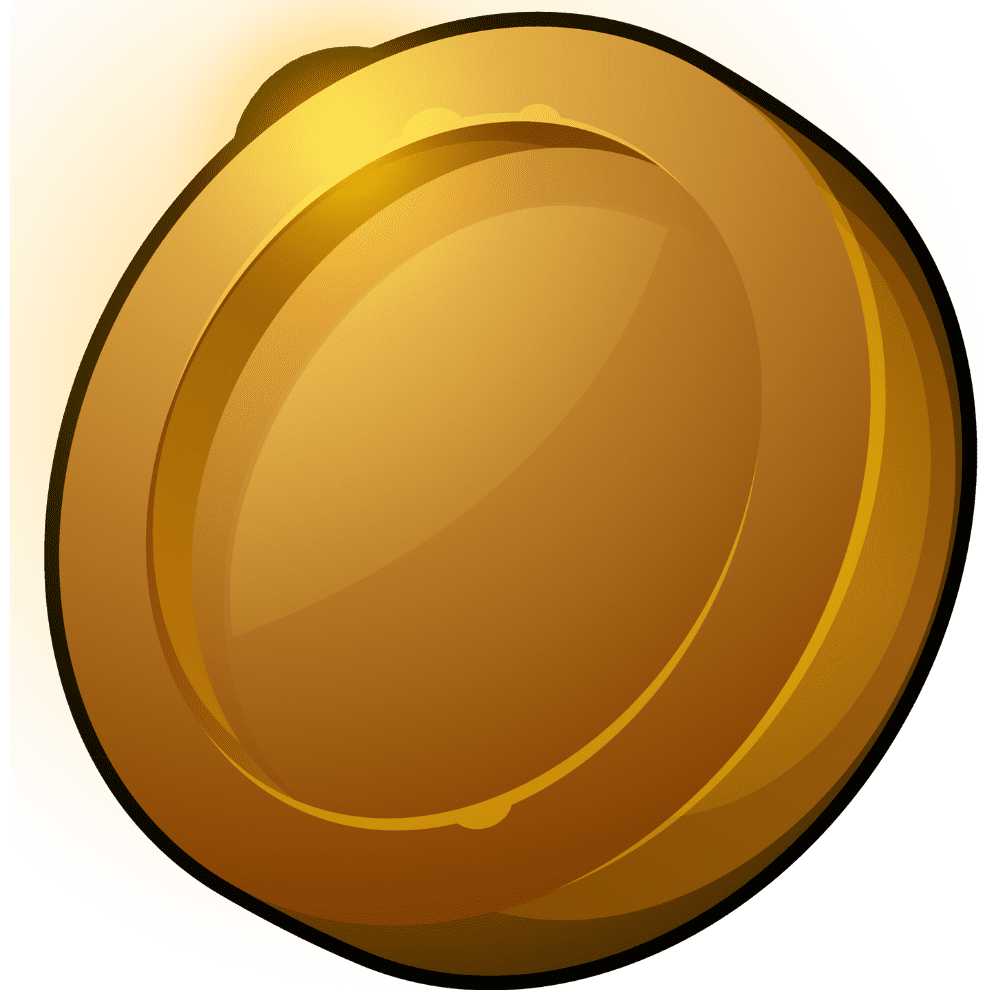
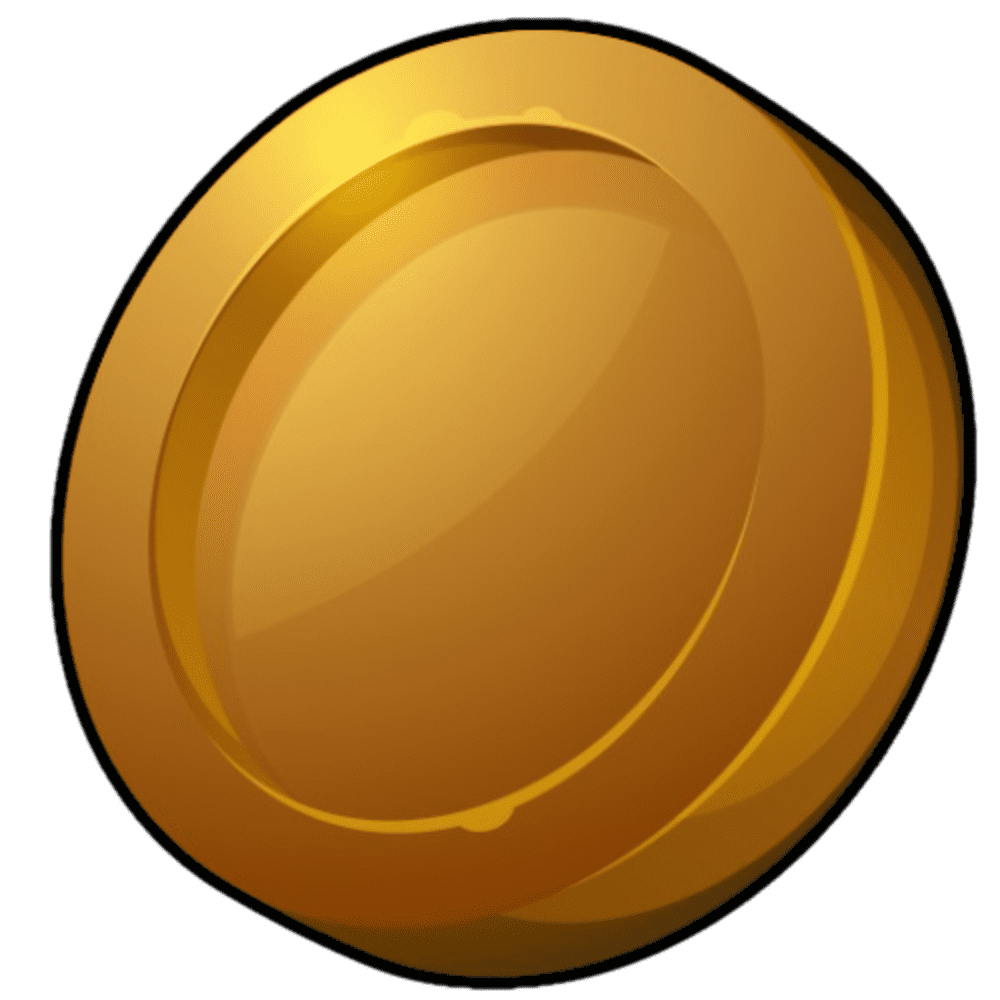
✨ randomize throwable angle and scales

diff --git a/lib/src/components/throwable.dart b/lib/src/components/throwable.dart
@@ -14,19 +14,25 @@ import '../utils/helpers.dart';
 
 class Throwable extends SpriteComponent
     with ParentIsA<GamePage>, HasGameReference<RiverWarrior> {
+  final Item item;
   Vector2 velocity;
-  final Item trash;
   bool divided;
 
   Throwable(super.image,
-      {super.position,
-      super.size,
+      {required this.item,
       required this.velocity,
-      required this.trash,
+      this.divided = false,
+      super.position,
+      super.size,
+      super.scale,
       super.angle,
-      super.anchor = Anchor.center,
-      this.divided = false})
+      super.anchor = Anchor.center})
       : super.fromImage();
+
+  void finish() {
+    game.router.pushNamed('game-over');
+    parent.isReleased = true;
+  }
 
   @override
   void update(double dt) {
@@ -41,19 +47,16 @@ class Throwable extends SpriteComponent
 
     if ((position.y - objSize) > game.size.y) {
       removeFromParent();
-      if (!divided && trash is! Rock && trash is! Coin) {
+      if (!divided && item is! Rock && item is! Coin) {
         parent.mistake++;
-        if (parent.mistake >= game.maxMistake) parent.finish();
+        if (parent.mistake >= game.maxMistake) finish();
       }
     }
   }
 
   void touchAtPoint(Vector2 vector2) {
     if (divided) return;
-    if (trash is Rock) {
-      parent.finish();
-      return;
-    }
+    if (item is Rock) return finish();
 
     final a =
         getAngleOfTouchPont(center: position, initAngle: angle, touch: vector2);
@@ -70,24 +73,25 @@ class Throwable extends SpriteComponent
 
       parent.addAll([
         Throwable(dividedImage2.composeSync(),
-            position: center -
-                Vector2(size.x / 2 * cos(angle), size.x / 2 * sin(angle)),
-            trash: trash,
+            item: item,
             velocity: Vector2(velocity.x - 2, velocity.y),
             divided: true,
+            position: center -
+                Vector2(size.x / 2 * cos(angle), size.x / 2 * sin(angle)),
             size: Vector2(size.x, size.y / 2),
+            scale: scale,
             angle: angle,
             anchor: Anchor.topLeft),
         Throwable(dividedImage1.composeSync(),
+            item: item,
+            velocity: Vector2(velocity.x + 2, velocity.y),
+            divided: true,
             position: center +
                 Vector2(size.x / 4 * cos(angle + 3 * pi / 2),
                     size.x / 4 * sin(angle + 3 * pi / 2)),
             size: Vector2(size.x, size.y / 2),
-            angle: angle,
-            anchor: Anchor.center,
-            trash: trash,
-            velocity: Vector2(velocity.x + 2, velocity.y),
-            divided: true)
+            scale: scale,
+            angle: angle)
       ]);
     } else {
       final dividedImage1 = composition.ImageComposition()
@@ -101,28 +105,29 @@ class Throwable extends SpriteComponent
 
       parent.addAll([
         Throwable(dividedImage1.composeSync(),
+            item: item,
+            velocity: Vector2(velocity.x - 2, velocity.y),
+            divided: true,
             position: center -
                 Vector2(size.x / 4 * cos(angle), size.x / 4 * sin(angle)),
             size: Vector2(size.x / 2, size.y),
-            angle: angle,
-            anchor: Anchor.center,
-            trash: trash,
-            velocity: Vector2(velocity.x - 2, velocity.y),
-            divided: true),
+            scale: scale,
+            angle: angle),
         Throwable(dividedImage2.composeSync(),
+            item: item,
+            velocity: Vector2(velocity.x + 2, velocity.y),
+            divided: true,
             position: center +
                 Vector2(size.x / 2 * cos(angle + 3 * pi / 2),
                     size.x / 2 * sin(angle + 3 * pi / 2)),
             size: Vector2(size.x / 2, size.y),
+            scale: scale,
             angle: angle,
-            anchor: Anchor.topLeft,
-            trash: trash,
-            velocity: Vector2(velocity.x + 2, velocity.y),
-            divided: true)
+            anchor: Anchor.topLeft)
       ]);
     }
 
-    parent.score += trash.point;
+    parent.score += item.point;
     removeFromParent();
   }
 }

diff --git a/lib/src/pages/game.dart b/lib/src/pages/game.dart
@@ -20,11 +20,6 @@ class GamePage extends Dojo with HasGameReference<RiverWarrior> {
   late double maxVerticalVelocity;
   int mistake = 0, score = 0;
 
-  void finish() {
-    game.router.pushNamed('game-over');
-    isReleased = true;
-  }
-
   @override
   void onLoad() {
     super.onLoad();
@@ -40,12 +35,14 @@ class GamePage extends Dojo with HasGameReference<RiverWarrior> {
           autoStart: false,
           removeOnFinish: true,
           onTick: () {
-            final randomItem = items.random();
-            add(Throwable(game.images.fromCache('${randomItem.image}.png'),
+            final item = items.random();
+            add(Throwable(game.images.fromCache('${item.image}.png'),
                 position:
                     Vector2(Random().nextDouble() * game.size.x, game.size.y),
-                trash: randomItem,
-                size: Vector2.all(game.size.y / 5),
+                angle: Random().nextDouble() * 6,
+                scale: item.scale,
+                item: item,
+                size: Vector2.all(game.size.y / 6),
                 velocity: Vector2(0, maxVerticalVelocity)));
           }),
       Countdown(onCompleted: timerComponent.timer.start),

diff --git a/lib/src/models/plastic.dart b/lib/src/models/plastic.dart
@@ -1,16 +1,16 @@
 import 'item.dart';
 
 final class Plastic extends Item {
-  const Plastic({required super.image}) : super(point: 1);
+  const Plastic(super.image, {super.scaleFactor}) : super(point: 1);
 }
 
 const plastics = <Plastic>[
-  Plastic(image: 'container'),
-  Plastic(image: 'cup'),
-  Plastic(image: 'drink'),
-  Plastic(image: 'fork'),
-  Plastic(image: 'plastic'),
-  Plastic(image: 'rings'),
-  Plastic(image: 'spoon'),
-  Plastic(image: 'straw'),
+  Plastic('container', scaleFactor: 1.2),
+  Plastic('cup', scaleFactor: 0.8),
+  Plastic('drink', scaleFactor: 1.6),
+  Plastic('fork'),
+  Plastic('plastic', scaleFactor: 1.5),
+  Plastic('rings', scaleFactor: 1.2),
+  Plastic('spoon'),
+  Plastic('straw'),
 ];

diff --git a/lib/src/models/coin.dart b/lib/src/models/coin.dart
@@ -1,12 +1,13 @@
 import 'item.dart';
 
 final class Coin extends Item {
-  Coin({required super.image, required super.point})
-      : assert(!point.isNegative);
+  Coin(super.image, {required super.point})
+      : assert(!point.isNegative),
+        super(scaleFactor: 0.6);
 }
 
 final coins = <Coin>[
-  Coin(image: 'copper', point: 3),
-  Coin(image: 'silver', point: 6),
-  Coin(image: 'gold', point: 9),
+  Coin('copper', point: 3),
+  Coin('silver', point: 6),
+  Coin('gold', point: 9),
 ];

diff --git a/lib/src/models/item.dart b/lib/src/models/item.dart
@@ -1,3 +1,5 @@
+import 'package:flame/game.dart';
+
 import 'coin.dart';
 import 'plastic.dart';
 import 'rock.dart';
@@ -5,8 +7,11 @@ import 'rock.dart';
 abstract class Item {
   final String image;
   final int point;
+  final double scaleFactor;
 
-  const Item({required this.image, required this.point});
+  const Item(this.image, {required this.point, this.scaleFactor = 1});
+
+  Vector2 get scale => Vector2.all(scaleFactor);
 }
 
 final items = <Item>[...plastics, ...coins, ...rocks];

diff --git a/lib/src/models/rock.dart b/lib/src/models/rock.dart
@@ -1,11 +1,11 @@
 import 'item.dart';
 
 final class Rock extends Item {
-  Rock({required super.image, required super.point}) : assert(point.isNegative);
+  Rock(super.image, {required super.point}) : assert(point.isNegative);
 }
 
 final rocks = <Rock>[
-  Rock(image: 'sandstone', point: -3),
-  Rock(image: 'limestone', point: -6),
-  Rock(image: 'coal', point: -9),
+  Rock('sandstone', point: -3),
+  Rock('limestone', point: -6),
+  Rock('coal', point: -9),
 ];
